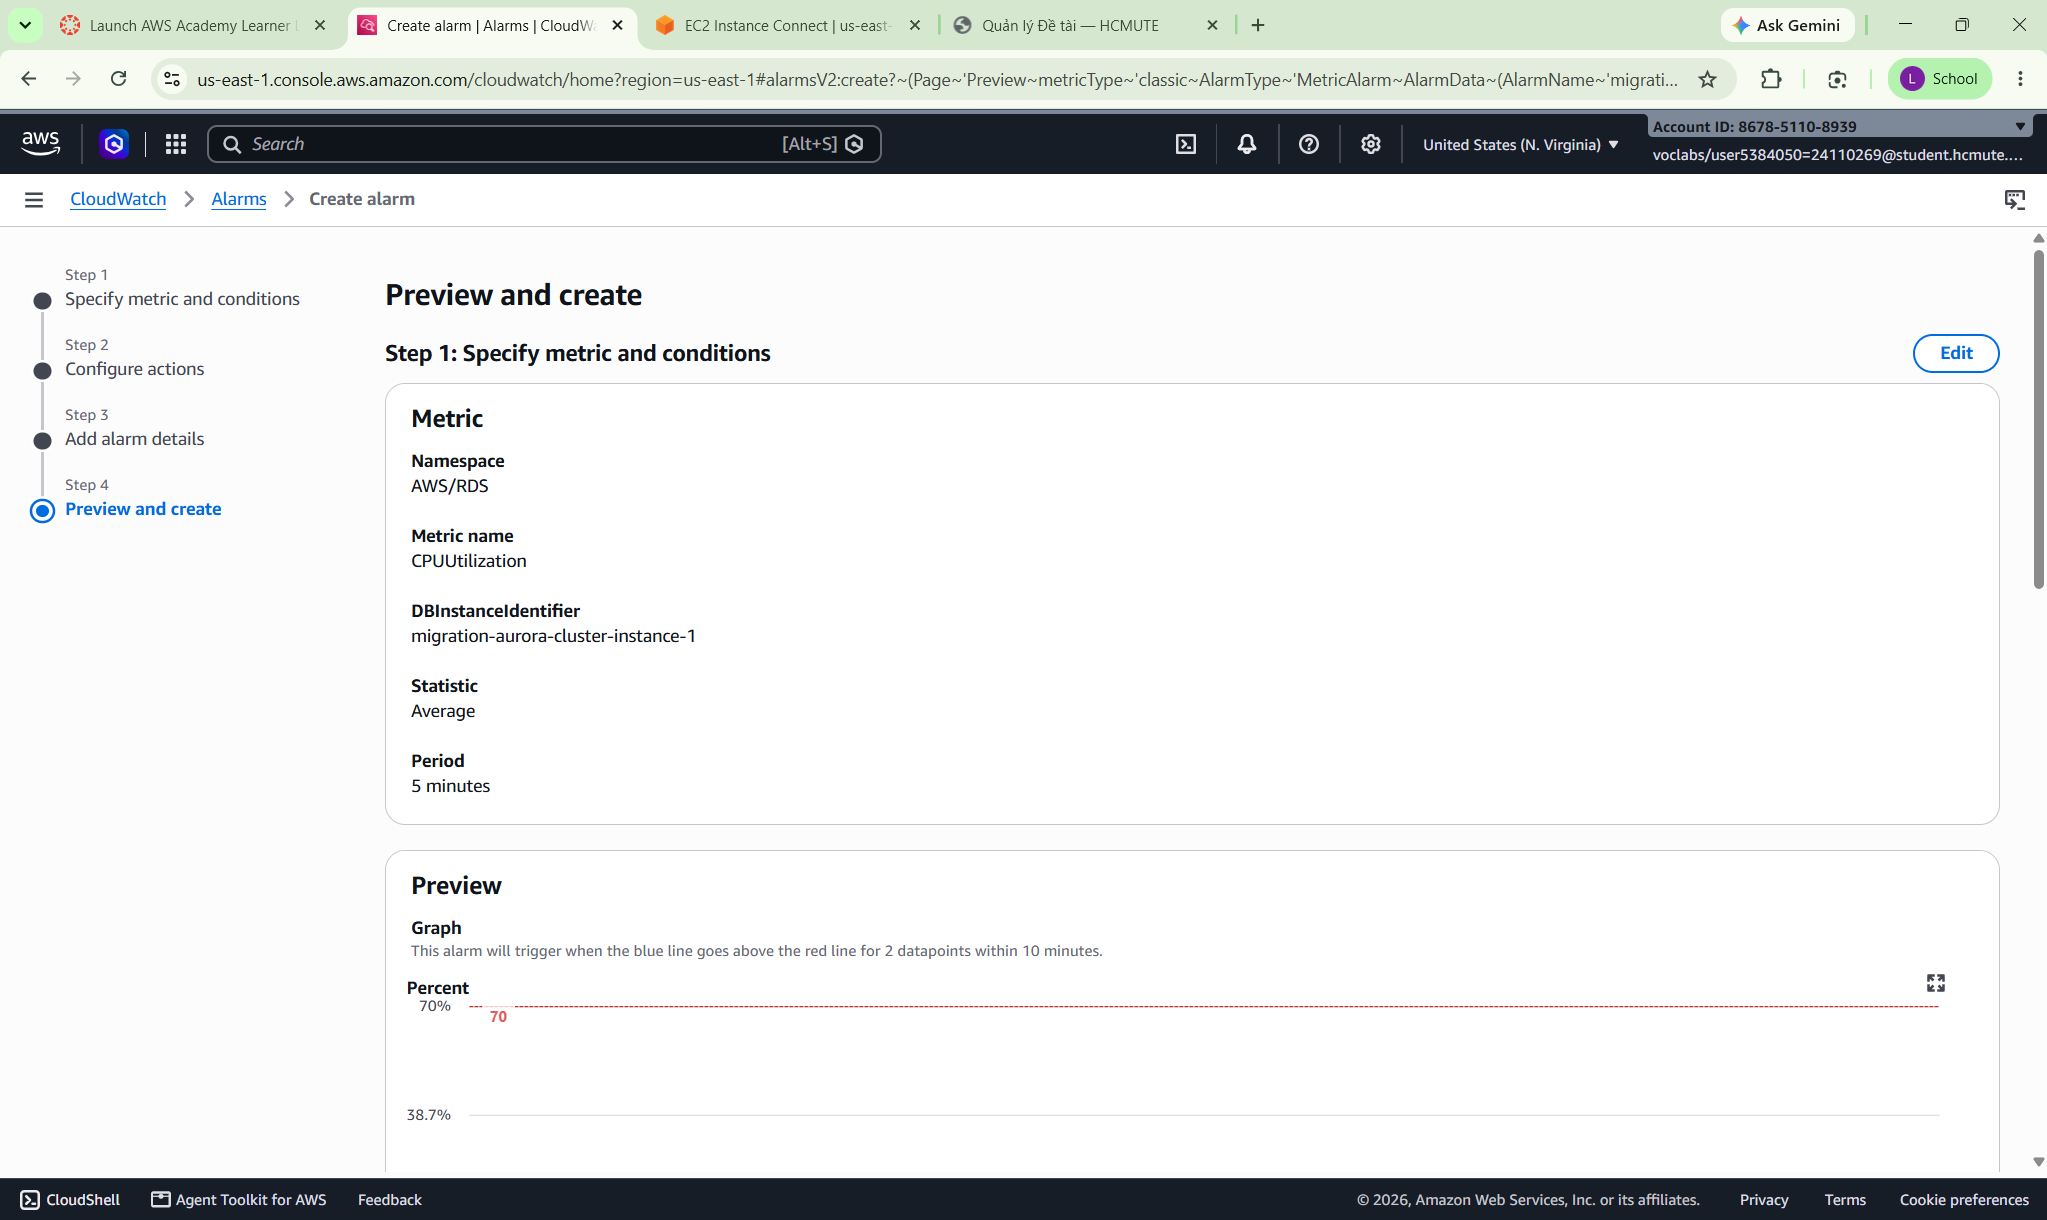
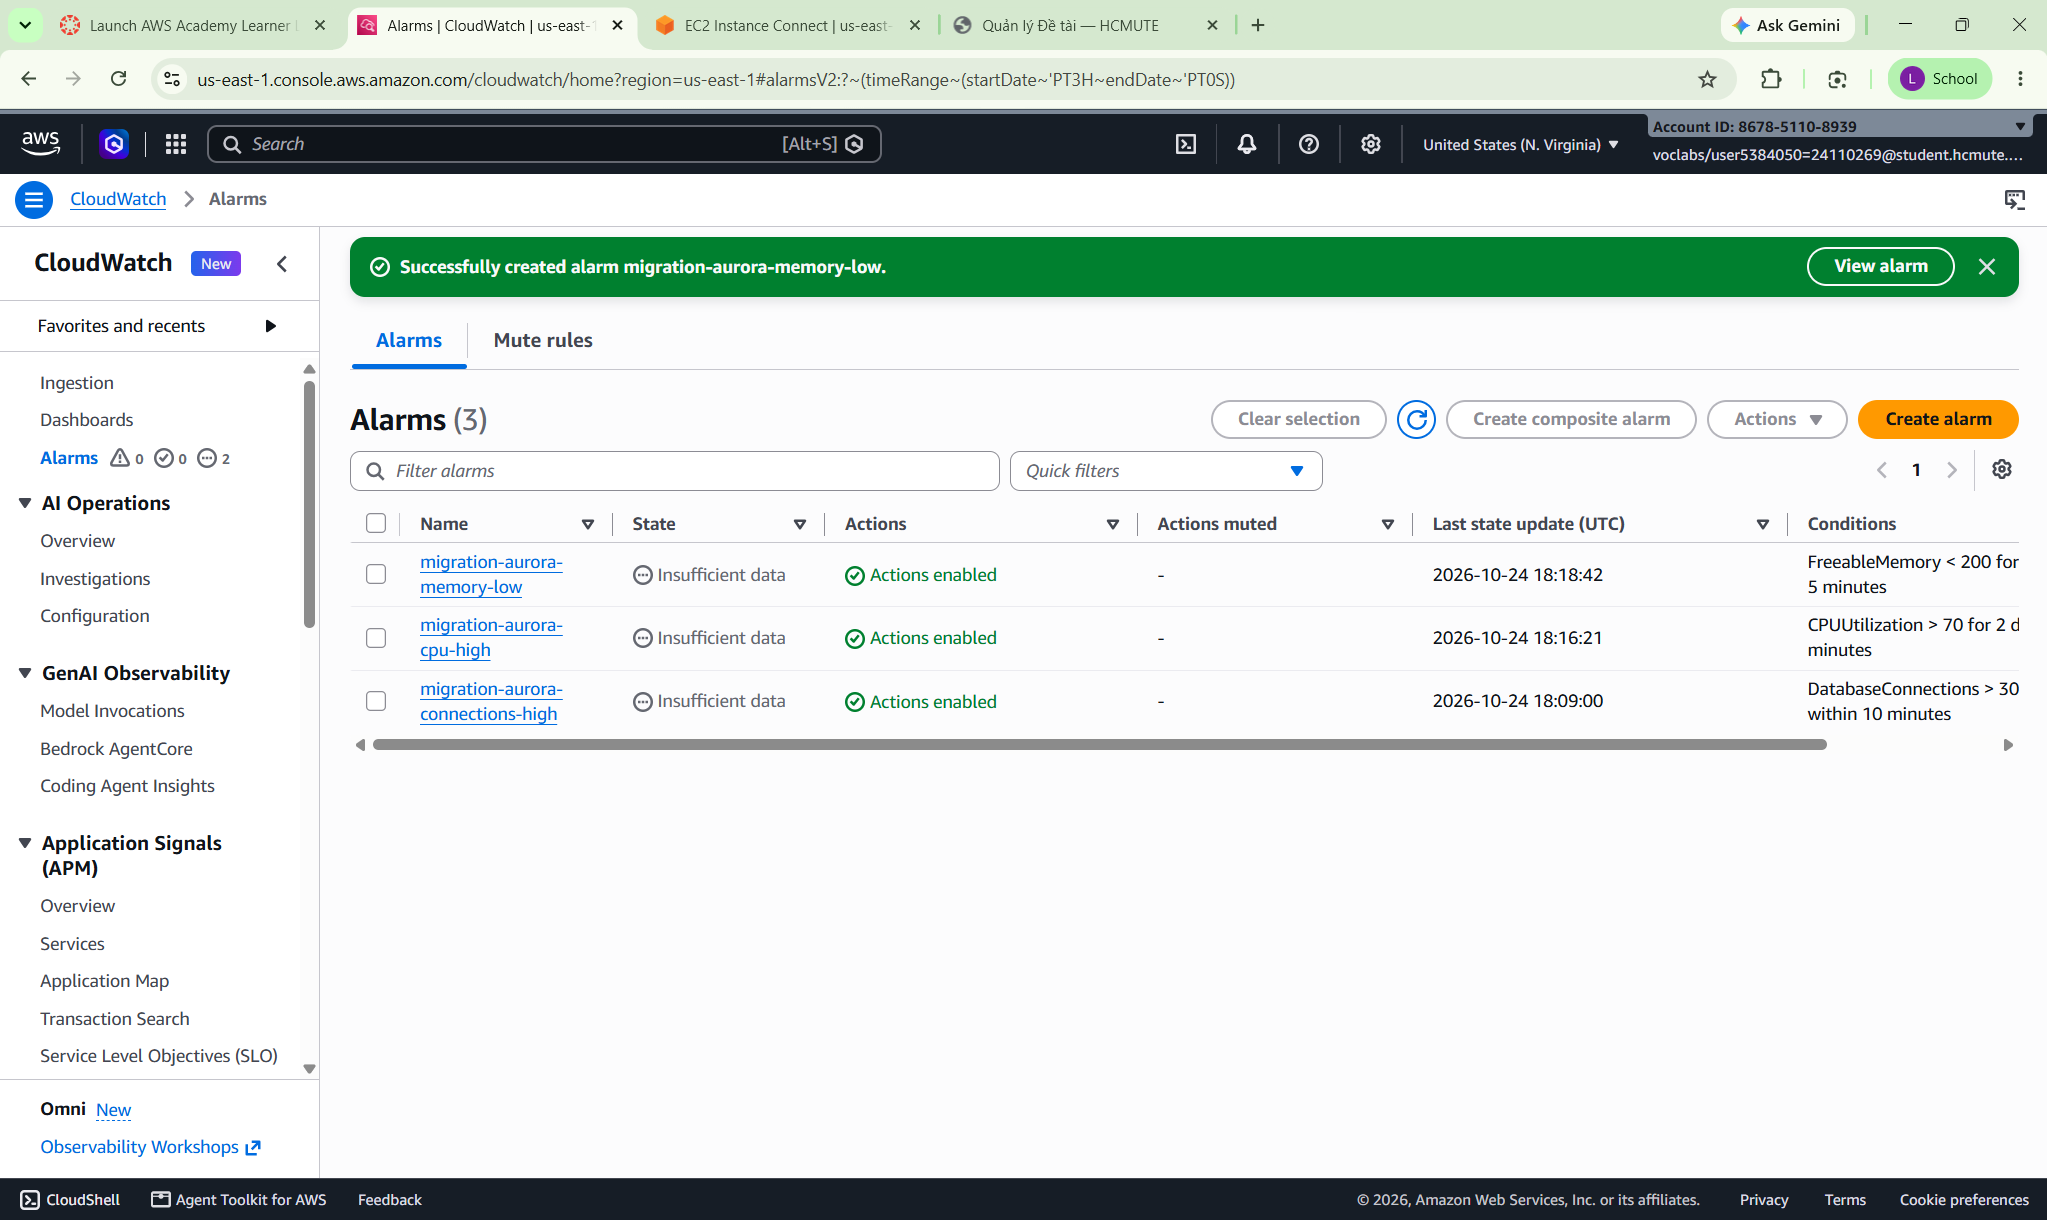
screenshots bổ sung

diff --git a/doc/24110316_24110269_Bao-cao-tien-do-tuan-3.md b/doc/24110316_24110269_Bao-cao-tien-do-tuan-3.md
@@ -40,7 +40,6 @@
 | Quỳnh | Kiểm tra log và trạng thái EC2 bằng Amazon CloudWatch |100%| 1 giờ| [Link](https://github.com/levanlan2709-wq/database-MySQL-on-EC2/blob/502cc7417b9b35982a320dbcbedd22804432265c/Screenshots_week_3/kiem%20tra%20log%20va%20trang%20thai%20EC2%20bang%20CloudWatch.png)
 | Quỳnh | Tạo CloudWatch Alarm giám sát CPU của EC2 MySQL nguồn |100%| 2 giờ| [Link](https://github.com/levanlan2709-wq/database-MySQL-on-EC2/blob/502cc7417b9b35982a320dbcbedd22804432265c/Screenshots_week_3/Tao%20CloudWatch%20alarm.png)
 | Quỳnh | Thử nghiệm quy trình backup → S3 → chuẩn bị restore theo script |100%|2 giờ| [Link](https://github.com/levanlan2709-wq/database-MySQL-on-EC2/blob/502cc7417b9b35982a320dbcbedd22804432265c/Screenshots_week_3/Kiem%20thu%20quy%20trinh%20backup%20tu%20dong.png)
-| Quỳnh | Ghi nhận lỗi, thời gian thực hiện và kết quả các lần kiểm thử | 100%|2 giờ| 
 | Lân | Rà soát cấu hình bảo mật của Aurora MySQL Cluster | 100% | 2 giờ | [Link](https://github.com/levanlan2709-wq/database-MySQL-on-EC2/blob/bd4b0c9da80b77ec90f8b6ea06ac155b40967b0b/Screenshots_week_3/R%C3%A0%20so%C3%A1t%20c%E1%BA%A5u%20h%C3%ACnh%20b%E1%BA%A3o%20m%E1%BA%ADt%20Aurora%20MySQL%20Cluster.png)
 | Lân | Kiểm tra DB Subnet Group | 100% | 2 giờ | [Link](https://github.com/levanlan2709-wq/database-MySQL-on-EC2/blob/bd4b0c9da80b77ec90f8b6ea06ac155b40967b0b/Screenshots_week_3/Ki%E1%BB%83m%20tra%20DB%20Subnet%20Group.png)
 | Lân | Kiểm tra Security Group của Aurora | 100% | 2 giờ | [Link](https://github.com/levanlan2709-wq/database-MySQL-on-EC2/blob/bd4b0c9da80b77ec90f8b6ea06ac155b40967b0b/Screenshots_week_3/Ki%E1%BB%83m%20tra%20Security%20Group%20c%E1%BB%A7a%20Aurora.png)
@@ -53,7 +52,6 @@
 | Lân | Viết script kiểm tra số bảng và số bản ghi trên Aurora sau restore | 100% | 2 giờ | [Link](https://github.com/levanlan2709-wq/database-MySQL-on-EC2/blob/bd4b0c9da80b77ec90f8b6ea06ac155b40967b0b/Screenshots_week_3/Vi%E1%BA%BFt%20script%20ki%E1%BB%83m%20tra%20s%E1%BB%91%20b%E1%BA%A3ng%20v%C3%A0%20s%E1%BB%91%20b%E1%BA%A3n%20ghi%20tr%C3%AAn%20Aurora.png)
 | Lân | Thực hiện kiểm tra tính toàn vẹn dữ liệu tự động giữa EC2 và Aurora | 100% | 2 giờ | [Link](https://github.com/levanlan2709-wq/database-MySQL-on-EC2/blob/bd4b0c9da80b77ec90f8b6ea06ac155b40967b0b/Screenshots_week_3/Ki%E1%BB%83m%20tra%20t%C3%ADnh%20to%C3%A0n%20v%E1%BA%B9n%20d%E1%BB%AF%20li%E1%BB%87u%20t%E1%BB%B1%20%C4%91%E1%BB%99ng.png)
 | Lân | Thử nghiệm lại Downtime Plan và Rollback Plan sau khi tích hợp script | 100% | 2 giờ | [Link]
-| Lân | Tổng hợp kết quả monitoring và kiểm thử Aurora | 100% | 2 giờ | [Link]
 
 ## 3. Kế hoạch dự kiến tuần 4
 

diff --git a/script/rollback_result.md b/script/rollback_result.md
@@ -1,0 +1,17 @@
+ROLLBACK_TEST=B11
+ROLLBACK_TYPE=PRE_CUTOVER_SIMULATION
+
+SOURCE_PLATFORM=EC2_MySQL
+SOURCE_DATABASE=sakila
+TARGET_PLATFORM=Amazon_Aurora_MySQL
+TARGET_DATABASE=sakila_w3_drill
+
+SOURCE_CONNECTION=PASS
+SOURCE_TABLE_COUNT=16
+SOURCE_DATA_CHECK=PASS
+SOURCE_AURORA_ROW_COUNT_MATCH=PASS
+
+ROLLBACK_READINESS=PASS
+APPLICATION_CUTOVER=NOT_PERFORMED
+
+CONCLUSION=MySQL source remained available and its data was verified. In a simulated failure before cutover, migration can be cancelled and the source can continue serving.
